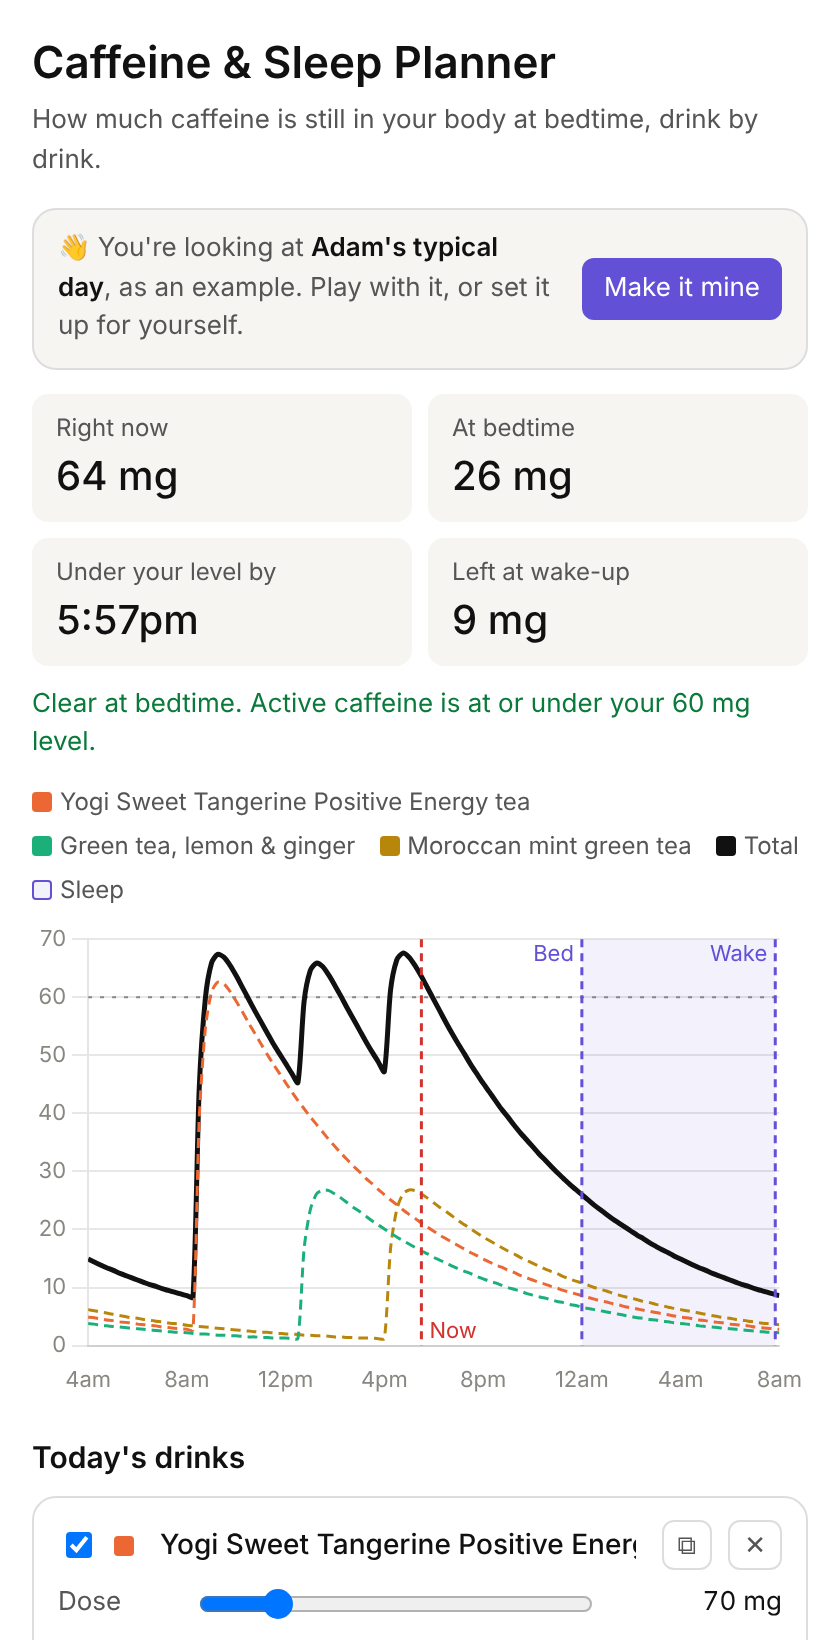
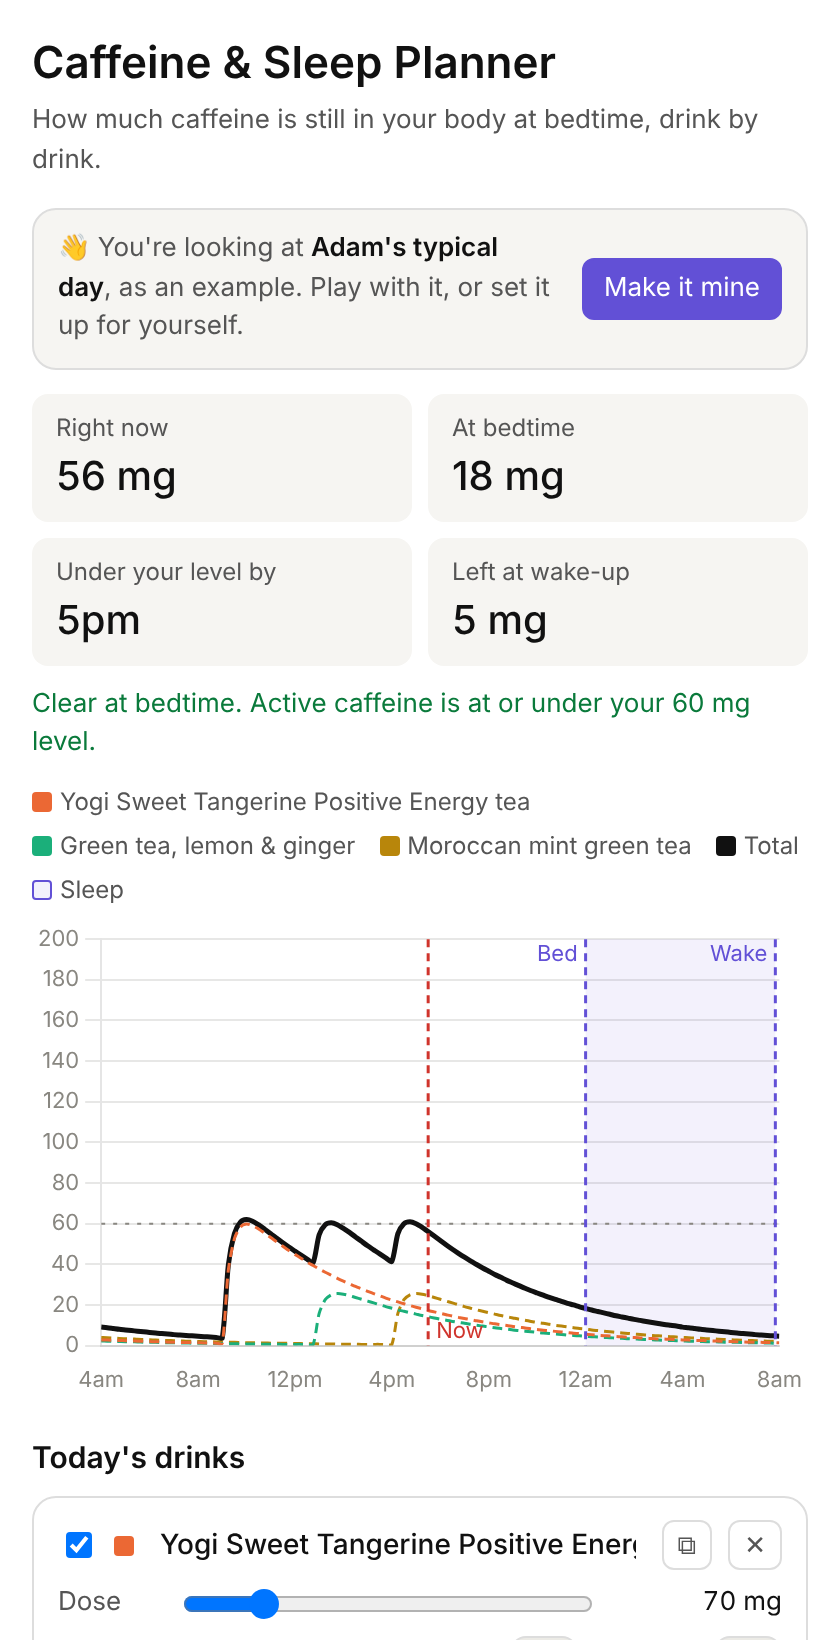
Fixed y-axis, 15-minute time steppers, Adam's updated routine
- Y-axis fixed at 0-200 mg; grows in 100 mg steps only if the total would clip
- Add ‹ › buttons to every time control (drinks, bedtime, wake-up)
- Example routine: tangerine tea 9:00, green tea 12:45, half-life 4 h
- One-time migration moves saved drinks still at the old example times
  and sets half-life 5 -> 4 when that routine is detected

Claude-Session: https://claude.ai/code/session_01TAkn27RJRVaxjxQTkGZQ8w

diff --git a/app.js b/app.js
@@ -1,7 +1,9 @@
 'use strict';
 const KEY='caffeine-planner-v2';
 const KA=3; // absorption rate per hour; peak lands roughly 1 h after a dose
-const X0=4,X1=32; // chart spans 4am today to 8am tomorrow
+const X0=4,X1=32;
+const Y_MIN_MAX=200; // default y-axis top (mg)
+const STEPPER='<span class="stp"><button type="button" class="step" data-d="-15" aria-label="15 minutes earlier">‹</button><span class="v tv"></span><button type="button" class="step" data-d="15" aria-label="15 minutes later">›</button></span>'; // chart spans 4am today to 8am tomorrow
 const PALETTE=['#eb6834','#1baf7a','#2a78d6','#c03f8c','#b8860b','#0f9fb0','#8a5a2b','#7a7a00'];
 const CELSIUS_PER_OZ=200/12;
 
@@ -33,9 +35,9 @@ const HL={fast:{label:'Fast',hl:3.5},avg:{label:'Average',hl:5},slow:{label:'Lin
 
 // Adam's routine, shown to first-time visitors as an example until they press "Make it mine".
 function defaults(){
-  return {v:2,profile:'example',hl:5,bed:24,wake:h(7,50),thr:60,repeat:true,custom:[],entries:[
-    {name:'Yogi Sweet Tangerine Positive Energy tea',mg:70,t:h(8,15),on:true},
-    {name:'Green tea, lemon & ginger',mg:30,t:h(12,30),on:true},
+  return {v:2,rv:2,profile:'example',hl:4,bed:24,wake:h(7,50),thr:60,repeat:true,custom:[],entries:[
+    {name:'Yogi Sweet Tangerine Positive Energy tea',mg:70,t:9,on:true},
+    {name:'Green tea, lemon & ginger',mg:30,t:h(12,45),on:true},
     {name:'Celsius (small pour)',perOz:CELSIUS_PER_OZ,oz:3,t:14,on:false},
     {name:'Preworkout (1 scoop)',mg:200,t:15,on:false},
     {name:'Moroccan mint green tea',mg:30,t:16,on:true}
@@ -64,6 +66,16 @@ function normalize(o){
       return withId(x);
     });
   }else S.entries=D.entries;
+  // Routine v2: Adam's updated times and half-life. Only touches drinks still at the old example times.
+  if(!(o.rv>=2)){
+    let hit=false;
+    S.entries.forEach(e=>{
+      if(e.name==='Yogi Sweet Tangerine Positive Energy tea'&&e.t===h(8,15)){e.t=9;hit=true}
+      if(e.name==='Green tea, lemon & ginger'&&e.t===h(12,30)){e.t=h(12,45);hit=true}
+    });
+    if(hit&&S.hl===5)S.hl=4;
+  }
+  S.rv=2;
   return S;
 }
 
@@ -118,7 +130,7 @@ function renderList(){
       '<button class="ib dup" type="button" title="Duplicate" aria-label="Duplicate">⧉</button>'+
       '<button class="ib del" type="button" title="Remove" aria-label="Remove">✕</button></div>'+
       '<div class="ln">'+doseControl(e)+'</div>'+
-      '<div class="ln"><span class="k">Time</span><input type="range" class="time" min="300" max="1410" step="15" value="'+Math.round(e.t*60)+'"><span class="v"></span></div>'+
+      '<div class="ln"><span class="k">Time</span><input type="range" class="time" min="300" max="1410" step="15" value="'+Math.round(e.t*60)+'">'+STEPPER+'</div>'+
       '<div class="cut"></div>'+
     '</div>').join('')||'<p class="sub">No drinks yet. Add one below.</p>';
 }
@@ -193,7 +205,7 @@ const chart=new Chart($('c'),{type:'line',data:{datasets:[]},
       callbacks:{title:i=>fmt(i[0].parsed.x),label:i=>i.dataset.label+': '+Math.round(i.parsed.y)+' mg'}}},
     scales:{
       x:{type:'linear',min:X0,max:X1,ticks:{stepSize:4,color:'#898781',font:{size:11},callback:v=>fmt(v)},grid:{display:false}},
-      y:{min:0,suggestedMax:50,ticks:{color:'#898781',font:{size:11}},grid:{}}
+      y:{min:0,max:Y_MIN_MAX,ticks:{color:'#898781',font:{size:11}},grid:{}}
     }},
   plugins:[markers]});
 // Touch screens never send "mouseout", so the tooltip would stay up forever. Hide it shortly after the finger lifts.
@@ -213,6 +225,15 @@ $('sensSeg').innerHTML=Object.entries(SENS).map(([k,v])=>'<button type="button" 
 $('hlSeg').innerHTML=Object.entries(HL).map(([k,v])=>'<button type="button" data-hl="'+v.hl+'">'+v.label+' · '+v.hl+'h</button>').join('');
 $('sensSeg').addEventListener('click',ev=>{const b=ev.target.closest('[data-thr]');if(b){S.thr=+b.dataset.thr;syncSettings();update()}});
 $('hlSeg').addEventListener('click',ev=>{const b=ev.target.closest('[data-hl]');if(b){S.hl=+b.dataset.hl;syncSettings();update()}});
+
+// ‹ › buttons nudge the neighbouring time slider by 15 minutes and fire its normal input handler.
+document.addEventListener('click',ev=>{
+  const b=ev.target.closest('.step');if(!b)return;
+  const r=b.closest('.ln').querySelector('input[type=range]');
+  const v=Math.min(+r.max,Math.max(+r.min,+r.value+ +b.dataset.d));
+  if(v===+r.value)return;
+  r.value=v;r.dispatchEvent(new Event('input',{bubbles:true}));
+});
 
 // ---------- example vs. mine ----------
 const toHours=v=>{const [H,M]=String(v).split(':').map(Number);return Number.isFinite(H)?H+(M||0)/60:null};
@@ -240,7 +261,7 @@ function update(){
   S.entries.forEach(e=>{
     const r=document.querySelector('.row[data-id="'+e.id+'"]');if(!r)return;
     r.querySelector('.dose+.v').textContent=e.perOz?e.oz+' oz · '+mgOf(e)+' mg':e.mg+' mg';
-    r.querySelector('.time+.v').textContent=fmt(e.t);
+    r.querySelector('.tv').textContent=fmt(e.t);
     const c=cutoff(e,ke),cut=r.querySelector('.cut');let txt='',warn=false;
     if(c.state==='ok'){
       txt=c.t>=Math.min(23.5,S.bed-1.5)?'Fine at any time up to '+fmt(c.t)+' for your bedtime level.':'Latest time for a clear bedtime: '+fmt(c.t)+'.';
@@ -257,6 +278,9 @@ function update(){
     {label:'Total',data:xs.map(t=>({x:t,y:Math.round(total(t,ke)*10)/10})),borderColor:line,borderWidth:2.5,pointRadius:0,tension:.25},
     {label:'OK at bed',data:[{x:X0,y:S.thr},{x:X1,y:S.thr}],borderColor:'#898781',borderWidth:1,borderDash:[2,4],pointRadius:0}
   ];
+  // Fixed y-axis so the chart doesn't jump while you drag; it only grows (in 100 mg steps) if the total would clip.
+  const peak=Math.max(...chart.data.datasets[chart.data.datasets.length-2].data.map(p=>p.y));
+  chart.options.scales.y.max=peak<=Y_MIN_MAX?Y_MIN_MAX:Math.ceil(peak/100)*100;
   chart.options.scales.y.grid.color=css('--grid');
   chart.update('none');
   $('legend').innerHTML=S.entries.filter(e=>e.on).map(e=>'<span><i class="sw" style="background:'+colorOf(e)+'"></i>'+esc(e.name)+'</span>').join('')+

diff --git a/index.html b/index.html
@@ -51,8 +51,8 @@
   <div class="ln"><span class="k">OK at bed</span><input type="range" id="thr" min="0" max="150" step="5"><span class="v" id="thrv"></span></div>
   <div class="pick"><span class="pk">How long it lasts in you</span><div class="seg" id="hlSeg"></div></div>
   <div class="ln"><span class="k">Half-life</span><input type="range" id="hl" min="2" max="12" step="0.5"><span class="v" id="hlv"></span></div>
-  <div class="ln"><span class="k">Bedtime</span><input type="range" id="bed" min="1200" max="1620" step="15"><span class="v" id="bedv"></span></div>
-  <div class="ln"><span class="k">Wake-up</span><input type="range" id="wake" min="300" max="720" step="5"><span class="v" id="wakev"></span></div>
+  <div class="ln"><span class="k">Bedtime</span><input type="range" id="bed" min="1200" max="1620" step="15"><span class="stp"><button type="button" class="step" data-d="-15" aria-label="15 minutes earlier">‹</button><span class="v tv" id="bedv"></span><button type="button" class="step" data-d="15" aria-label="15 minutes later">›</button></span></div>
+  <div class="ln"><span class="k">Wake-up</span><input type="range" id="wake" min="300" max="720" step="5"><span class="stp"><button type="button" class="step" data-d="-15" aria-label="15 minutes earlier">‹</button><span class="v tv" id="wakev"></span><button type="button" class="step" data-d="15" aria-label="15 minutes later">›</button></span></div>
   <label class="toggle"><input type="checkbox" id="repeat"> Same routine every day (count yesterday's leftovers)</label>
   <p class="sub">These are two different things. <b>Sensitivity</b> is how strongly a given amount affects you (receptor genetics, tolerance). <b>How long it lasts</b> is how fast your body clears it (mostly liver enzymes). You can be sensitive and still clear it fast.</p>
 </div>

diff --git a/style.css b/style.css
@@ -18,7 +18,7 @@ h2{font-size:15px;font-weight:600;margin:18px 0 8px}
 .hd .name:hover,.hd .name:focus{border-color:var(--line);outline:none}
 .sw{width:10px;height:10px;border-radius:2px;display:inline-block;flex:none}
 .ln{display:flex;align-items:center;gap:8px;font-size:13px;color:var(--sub);margin-top:6px}
-.ln .k{min-width:60px}
+.ln .k{flex:none;width:66px}
 .ln input[type=range]{flex:1;min-width:0}
 .ln .v{min-width:84px;text-align:right;color:var(--ink);font-variant-numeric:tabular-nums}
 .cut{font-size:12px;color:var(--muted);margin-top:4px}
@@ -74,3 +74,7 @@ fieldset label i{font-style:normal;color:var(--muted);font-size:12px}
 label.tm{justify-content:space-between;max-width:260px}
 label.tm input{font:inherit;color:var(--ink);background:var(--bg);border:1px solid var(--line);border-radius:6px;padding:3px 6px}
 .dlgBtns{display:flex;justify-content:flex-end;gap:8px;margin-top:16px}
+.stp{display:flex;align-items:center;gap:2px;flex:none}
+.stp .v.tv{min-width:64px;text-align:center}
+.step{width:34px;height:34px;flex:none;font:inherit;font-size:20px;line-height:1;color:var(--ink);background:var(--chip);border:1px solid var(--line);border-radius:8px;cursor:pointer;touch-action:manipulation;-webkit-user-select:none;user-select:none}
+.step:active{border-color:var(--accent)}
